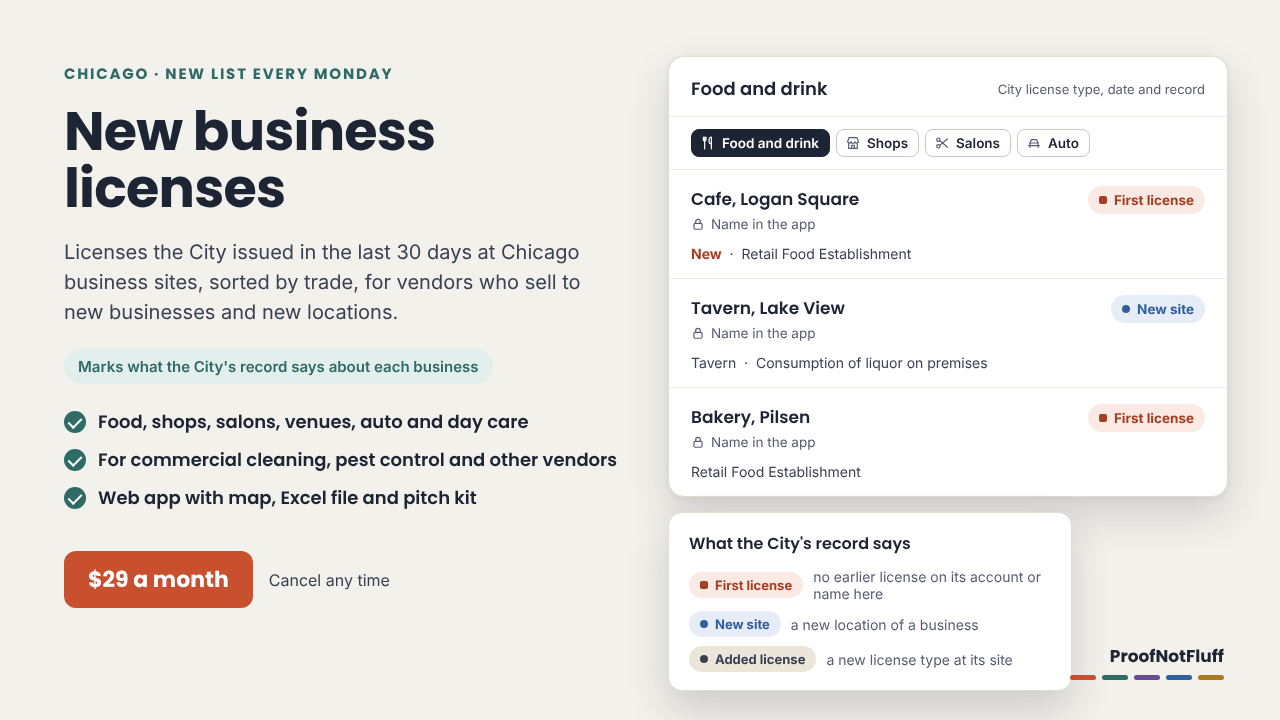
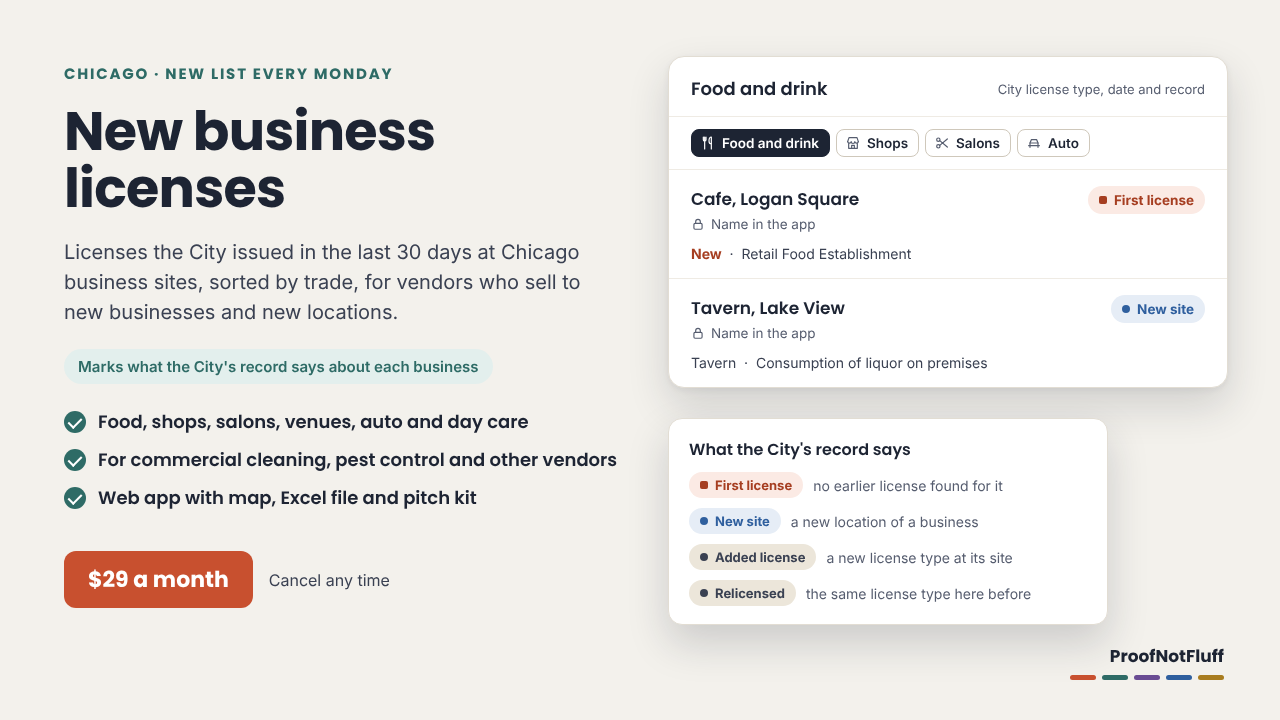
Licenses: holdout 2 round 5 minor items
- Left-out list names pharmaceutical representative licenses; vehicle parts and rims go to Auto shops (planted)
- Ordinals and the Spanish La keep their casing (87th, La Garrafita; planted)
- Cover shows all four City record labels; FAQ says the list is refreshed every Monday

Claude-Session: https://claude.ai/code/session_01XnX34ksV3GY3Ab6wG7Aich

Changed region(s): [[0.5, 0.5194, 0.9688, 0.9778]]

diff --git a/docs/chicago-new-business-licenses/index.html b/docs/chicago-new-business-licenses/index.html
@@ -7,11 +7,11 @@
 <link rel="icon" href="../assets/favicon.svg" type="image/svg+xml">
 <link rel="preload" href="../assets/fonts/poppins-700.woff2" as="font" type="font/woff2" crossorigin>
 <link rel="stylesheet" href="../assets/pnf.css">
-<script type="application/ld+json">{"@context": "https://schema.org", "@type": "FAQPage", "mainEntity": [{"@type": "Question", "name": "Where does this data come from?", "acceptedAnswer": {"@type": "Answer", "text": "The City of Chicago Data Portal's Business Licenses dataset. We pull it every Monday and keep new licenses (application type Issue) the City issued in the last 30 days at a Chicago business site."}}, {"@type": "Question", "name": "Is every license a brand-new business?", "acceptedAnswer": {"@type": "Answer", "text": "Most are, and each row says which. A business that opens another site, adds a new license type at a site it already has, or licenses a site again (a new owner, or the same business after an older license ended) also gets a new license. The members' list reads the City's earlier licenses for each business and marks which is which: first license, new site, added license or relicensed."}}, {"@type": "Question", "name": "Who is left out?", "acceptedAnswer": {"@type": "Answer", "text": "Renewals and changes, cancelled or revoked licenses, licenses for one person's own work, for work away from a fixed business site, or for an event or season (such as peddlers, special events, pop-ups, tow trucks, home-sharing, bed-and-breakfasts, shared kitchen users, flea market vendors and market stalls), home and mail-drop addresses (home-based businesses, apartments, private mailboxes and virtual offices), sites outside Chicago, and any business whose shown name could be a person's name. A business with two licenses at one site is listed once."}}, {"@type": "Question", "name": "Does it overlap with Chicago Restaurant Inspection Leads?", "acceptedAnswer": {"@type": "Answer", "text": "Partly, and only for food businesses. That product lists the City's food license inspection, which usually comes within three weeks before the food license this list shows. The members' list marks every food row with that inspection in the 120 days before its license, so a member of both can hide them. Nearly all shops, salons, venues, auto shops and day care centers are only here."}}, {"@type": "Question", "name": "Is every business on the list open?", "acceptedAnswer": {"@type": "Answer", "text": "Not necessarily. A license shows the City issued it on that date. Some businesses open the same week, some later."}}, {"@type": "Question", "name": "Do you contact these businesses for me?", "acceptedAnswer": {"@type": "Answer", "text": "No. You make your own calls and visits. We never contact anyone on your behalf, and no business listed has endorsed or works with ProofNotFluff."}}]}</script><script type="application/ld+json">{"@context": "https://schema.org", "@type": "BreadcrumbList", "itemListElement": [{"@type": "ListItem", "position": 1, "name": "Home", "item": "https://proofnotfluff.com/"}, {"@type": "ListItem", "position": 2, "name": "Shop", "item": "https://proofnotfluff.com/shop/"}, {"@type": "ListItem", "position": 3, "name": "Chicago New Business Licenses"}]}</script><style>.ld-page .asof,.ld-page footer p{color:var(--muted)}.rl-act{margin:18px 0 8px}.lc-pill{background:var(--chip-near-bg);color:var(--chip-near)}.rl3 .ld-pill{margin:0 0 10px}.rl3 .ld-ptop{margin:0 0 12px}.lc-area{font-size:24px;line-height:1.2}.lc-h3{font:600 18px/1.3 Poppins,system-ui,sans-serif;margin:26px 0 10px;color:var(--ink)}.lc-h3 span{font:400 15px/1.3 system-ui,sans-serif;color:var(--muted)}.ld-page .ld-tiles .tile .lab{letter-spacing:.04em;overflow-wrap:anywhere}.ld-page .ld-tiles .tile .sub{text-wrap:balance}@media(max-width:600px){.ld-page .ld-tiles .tile .lab{font-size:11.5px;letter-spacing:.02em;white-space:normal}}@media(min-width:1000px){.ld-list.rl3{grid-template-columns:repeat(3,minmax(0,1fr))}}.rl-trades{list-style:none;margin:14px 0 0;padding:0;background:var(--card);border:1px solid var(--line);border-radius:12px;max-width:760px}.rl-trades li{display:flex;justify-content:space-between;align-items:center;gap:16px;padding:12px 16px;border-top:1px solid var(--rule)}section.block .rl-trades li{max-width:none}.rl-trades li:first-child{border-top:0}.rl-trades .nm{font-weight:600;color:var(--ink)}.rl-trades .nm small{display:block;font-size:13.5px;font-weight:400;color:var(--muted);margin-top:2px}.rl-trades .n{font:700 18px/1 Poppins,system-ui,sans-serif;color:var(--ink);font-variant-numeric:tabular-nums}.ld-page .ld-cta p.ld-buybtn{margin-top:16px}.ld-page h2,.ld-page h3,.ld-page summary{text-wrap:balance}</style>
+<script type="application/ld+json">{"@context": "https://schema.org", "@type": "FAQPage", "mainEntity": [{"@type": "Question", "name": "Where does this data come from?", "acceptedAnswer": {"@type": "Answer", "text": "The City of Chicago Data Portal's Business Licenses dataset. The list is refreshed every Monday from the City's latest records. It keeps new licenses (application type Issue) the City issued in the last 30 days at a Chicago business site."}}, {"@type": "Question", "name": "Is every license a brand-new business?", "acceptedAnswer": {"@type": "Answer", "text": "Most are, and each row says which. A business that opens another site, adds a new license type at a site it already has, or licenses a site again (a new owner, or the same business after an older license ended) also gets a new license. The members' list reads the City's earlier licenses for each business and marks which is which: first license, new site, added license or relicensed."}}, {"@type": "Question", "name": "Who is left out?", "acceptedAnswer": {"@type": "Answer", "text": "Renewals and changes, cancelled or revoked licenses, licenses for one person's own work, for work away from a fixed business site, or for an event or season (such as peddlers, special events, pop-ups, tow trucks, home-sharing, bed-and-breakfasts, shared kitchen users, flea market vendors and market stalls), home and mail-drop addresses (home-based businesses, apartments, private mailboxes and virtual offices), sites outside Chicago, and any business whose shown name could be a person's name. A business with two licenses at one site is listed once."}}, {"@type": "Question", "name": "Does it overlap with Chicago Restaurant Inspection Leads?", "acceptedAnswer": {"@type": "Answer", "text": "Partly, and only for food businesses. That product lists the City's food license inspection, which usually comes within three weeks before the food license this list shows. The members' list marks every food row with that inspection in the 120 days before its license, so a member of both can hide them. Nearly all shops, salons, venues, auto shops and day care centers are only here."}}, {"@type": "Question", "name": "Is every business on the list open?", "acceptedAnswer": {"@type": "Answer", "text": "Not necessarily. A license shows the City issued it on that date. Some businesses open the same week, some later."}}, {"@type": "Question", "name": "Do you contact these businesses for me?", "acceptedAnswer": {"@type": "Answer", "text": "No. You make your own calls and visits. We never contact anyone on your behalf, and no business listed has endorsed or works with ProofNotFluff."}}]}</script><script type="application/ld+json">{"@context": "https://schema.org", "@type": "BreadcrumbList", "itemListElement": [{"@type": "ListItem", "position": 1, "name": "Home", "item": "https://proofnotfluff.com/"}, {"@type": "ListItem", "position": 2, "name": "Shop", "item": "https://proofnotfluff.com/shop/"}, {"@type": "ListItem", "position": 3, "name": "Chicago New Business Licenses"}]}</script><style>.ld-page .asof,.ld-page footer p{color:var(--muted)}.rl-act{margin:18px 0 8px}.lc-pill{background:var(--chip-near-bg);color:var(--chip-near)}.rl3 .ld-pill{margin:0 0 10px}.rl3 .ld-ptop{margin:0 0 12px}.lc-area{font-size:24px;line-height:1.2}.lc-h3{font:600 18px/1.3 Poppins,system-ui,sans-serif;margin:26px 0 10px;color:var(--ink)}.lc-h3 span{font:400 15px/1.3 system-ui,sans-serif;color:var(--muted)}.ld-page .ld-tiles .tile .lab{letter-spacing:.04em;overflow-wrap:anywhere}.ld-page .ld-tiles .tile .sub{text-wrap:balance}@media(max-width:600px){.ld-page .ld-tiles .tile .lab{font-size:11.5px;letter-spacing:.02em;white-space:normal}}@media(min-width:1000px){.ld-list.rl3{grid-template-columns:repeat(3,minmax(0,1fr))}}.rl-trades{list-style:none;margin:14px 0 0;padding:0;background:var(--card);border:1px solid var(--line);border-radius:12px;max-width:760px}.rl-trades li{display:flex;justify-content:space-between;align-items:center;gap:16px;padding:12px 16px;border-top:1px solid var(--rule)}section.block .rl-trades li{max-width:none}.rl-trades li:first-child{border-top:0}.rl-trades .nm{font-weight:600;color:var(--ink)}.rl-trades .nm small{display:block;font-size:13.5px;font-weight:400;color:var(--muted);margin-top:2px}.rl-trades .n{font:700 18px/1 Poppins,system-ui,sans-serif;color:var(--ink);font-variant-numeric:tabular-nums}.ld-page .ld-cta p.ld-buybtn{margin-top:16px}.ld-page h2,.ld-page h3,.ld-page summary{text-wrap:balance}</style>
 </head><body class="ld-page">
 <a class="skip" href="#main">Skip to content</a>
 <header class="top"><div class="wrap"><a class="brandlink" href="../"><span class="brand">ProofNotFluff</span><span class="bars" aria-hidden="true"><i></i><i></i><i></i><i></i><i></i></span></a>
 <nav class="top" aria-label="Main"><a href="../shop/" aria-current="page">Shop</a><a href="../calculators/">Free calculators</a><a href="../questions/">Questions</a></nav></div></header>
-<main class="wrap" id="main"><nav class="crumbs" aria-label="Breadcrumb"><ol><li><a href="../">Home</a></li><li><a href="../shop/">Shop</a></li><li aria-current="page">Chicago New Business Licenses</li></ol></nav><div class="ld-hero"><p class="eyebrow">Free sample, updated every Monday</p><h1>Chicago New Business Licenses</h1><p class="lede">53 business sites on this week's list got a new City business license in the week to Oct 22, 2026, and 234 in the last 30 days. For vendors who sell to new businesses and new locations: POS and payments, signs, insurance, bookkeeping, cleaning, pest control, waste and supplies.</p><div class="ld-heroact rl-act"><a class="btn ld-btnbig" href="mailto:hello@proofnotfluff.com?subject=Chicago%20New%20Business%20Licenses%3A%20tell%20me%20when%20it%20opens">Tell me when it opens</a><a class="ld-textlink" href="#sample">See this week's sample</a></div><p class="ld-heronote">Not on sale yet. New list every Monday.</p></div><div class="tiles ld-tiles"><div class="tile key"><div class="lab">New in 30 days</div><div class="val">234</div><div class="sub">licensed business sites</div></div><div class="tile"><div class="lab">New this week</div><div class="val">53</div><div class="sub">licensed in the last 7 days</div></div><div class="tile"><div class="lab">Food businesses</div><div class="val">74</div><div class="sub">restaurants, cafes, bars, shops</div></div><div class="tile"><div class="lab">Busiest area this week</div><div class="val lc-area">Lincoln Park</div><div class="sub">4 new licenses, tied with 1 more area</div></div></div><p class="asof">City records pulled Thursday, Oct 22, 2026. The list is refreshed every Monday.</p><section class="block"><h2>New licenses by trade, last 30 days</h2><p>Each business on the list, sorted by what it does, so you can work the trades that buy from you.</p><ol class="rl-trades"><li><span class="nm">Food and drink<small>Restaurants, cafes, bars, caterers and food stores, by their City food or liquor license or a prepared or perishable food activity. 26 new this week</small></span><span class="n">74</span></li><li><span class="nm">Shops and services<small>Shops, offices, studios, manufacturers and other services. 16 new this week</small></span><span class="n">103</span></li><li><span class="nm">Salons, spas, fitness<small>Salons, barbers, nails, skin care, spas, gyms and studios. 7 new this week</small></span><span class="n">41</span></li><li><span class="nm">Venues and lodging<small>Event venues, entertainment, hotels and lodging. 2 new this week</small></span><span class="n">3</span></li><li><span class="nm">Auto shops<small>Auto repair, tire shops, car washes and gas stations. 1 new this week</small></span><span class="n">10</span></li><li><span class="nm">Day care<small>Day care and children&#x27;s services. 1 new this week</small></span><span class="n">3</span></li></ol></section><section class="block" id="sample"><h2>This week's sample</h2><p>Up to three businesses per trade licensed in the last 7 days. The members' list has all 234 from the last 30 days, with a map, filters by trade, area and date, and an Excel file.</p><h3 class="lc-h3">Food and drink <span>(26 this week)</span></h3><div class="ld-list rl3"><article class="ld-proj"><p class="ld-pill lc-pill">Licensed Oct 21, 2026</p><div class="ld-ptop"><span class="ld-cost" style="font-size:20px">Plush Pup</span></div><dl class="ld-meta"><div><dt>Where</dt><dd>5344 N Cumberland Ave 1st, O&#x27;Hare</dd></div><div><dt>License</dt><dd>Retail Food Establishment</dd></div><div><dt>Activity</dt><dd>Sale of Food Prepared Onsite With Dining Area</dd></div></dl></article><article class="ld-proj"><p class="ld-pill lc-pill">Licensed Oct 21, 2026</p><div class="ld-ptop"><span class="ld-cost" style="font-size:20px">Pearl Club</span></div><dl class="ld-meta"><div><dt>Where</dt><dd>495-499 N Milwaukee Ave Basement, 1, Mezz., West Town</dd></div><div><dt>License</dt><dd>Tavern</dd></div><div><dt>Activity</dt><dd>Tavern - Consumption of Liquor on Premises</dd></div></dl></article><article class="ld-proj"><p class="ld-pill lc-pill">Licensed Oct 21, 2026</p><div class="ld-ptop"><span class="ld-cost" style="font-size:20px">Millennium Hall Casa Bonita</span></div><dl class="ld-meta"><div><dt>Where</dt><dd>11 N Michigan Ave 1st, Loop</dd></div><div><dt>License</dt><dd>Caterer&#x27;s Liquor License</dd></div><div><dt>Activity</dt><dd>Catering of Liquor To Events</dd></div></dl></article></div><h3 class="lc-h3">Shops and services <span>(16 this week)</span></h3><div class="ld-list rl3"><article class="ld-proj"><p class="ld-pill lc-pill">Licensed Oct 21, 2026</p><div class="ld-ptop"><span class="ld-cost" style="font-size:20px">Pro Plus Parking</span></div><dl class="ld-meta"><div><dt>Where</dt><dd>1005 N State St 23,4,5,6rt, Near North Side</dd></div><div><dt>License</dt><dd>Commercial Garage</dd></div><div><dt>Activity</dt><dd>Provide 4 or More Parking Spaces For a Fee - to Residents, Tenants, Users, Employees and/or Guests (Not Available or Advertised to the Public)</dd></div></dl></article><article class="ld-proj"><p class="ld-pill lc-pill">Licensed Oct 21, 2026</p><div class="ld-ptop"><span class="ld-cost" style="font-size:20px">Paws &amp; Effect</span></div><dl class="ld-meta"><div><dt>Where</dt><dd>2459 E 75th St, South Shore</dd></div><div><dt>License</dt><dd>Animal Care License</dd></div><div><dt>Activity</dt><dd>Provide Animal Grooming Services</dd></div></dl></article><article class="ld-proj"><p class="ld-pill lc-pill">Licensed Oct 21, 2026</p><div class="ld-ptop"><span class="ld-cost" style="font-size:20px">House of Fragrances Luxe</span></div><dl class="ld-meta"><div><dt>Where</dt><dd>3351 N Harlem Ave, Dunning</dd></div><div><dt>License</dt><dd>Limited Business License</dd></div><div><dt>Activity</dt><dd>Retail Sales of General Merchandise</dd></div></dl></article></div><h3 class="lc-h3">Salons, spas, fitness <span>(7 this week)</span></h3><div class="ld-list rl3"><article class="ld-proj"><p class="ld-pill lc-pill">Licensed Oct 21, 2026</p><div class="ld-ptop"><span class="ld-cost" style="font-size:20px">One Stop Nails &amp; Spa</span></div><dl class="ld-meta"><div><dt>Where</dt><dd>8145 S Cottage Grove Ave, Chatham</dd></div><div><dt>License</dt><dd>Limited Business License</dd></div><div><dt>Activity</dt><dd>Nail Services | Provide Waxing Services</dd></div></dl></article><article class="ld-proj"><p class="ld-pill lc-pill">Licensed Oct 21, 2026</p><div class="ld-ptop"><span class="ld-cost" style="font-size:20px">Lincoln Park Waxing Studio Inc.</span></div><dl class="ld-meta"><div><dt>Where</dt><dd>2102 N Clark St 1st, Lincoln Park</dd></div><div><dt>License</dt><dd>Limited Business License</dd></div><div><dt>Activity</dt><dd>Skincare Services | Provide Waxing Services</dd></div></dl></article><article class="ld-proj"><p class="ld-pill lc-pill">Licensed Oct 21, 2026</p><div class="ld-ptop"><span class="ld-cost" style="font-size:20px">Emyves Spa</span></div><dl class="ld-meta"><div><dt>Where</dt><dd>7127 N Clark St 1st, Rogers Park</dd></div><div><dt>License</dt><dd>Limited Business License</dd></div><div><dt>Activity</dt><dd>Hair Services | Skincare Services</dd></div></dl></article></div><h3 class="lc-h3">Venues and lodging <span>(2 this week)</span></h3><div class="ld-list rl3"><article class="ld-proj"><p class="ld-pill lc-pill">Licensed Oct 20, 2026</p><div class="ld-ptop"><span class="ld-cost" style="font-size:20px">Play 424</span></div><dl class="ld-meta"><div><dt>Where</dt><dd>1415 N Ashland Ave 1 R1, West Town</dd></div><div><dt>License</dt><dd>Public Place of Amusement</dd></div><div><dt>Activity</dt><dd>Charges a Fee for Entertainment or Amusements or Recreational Activities | Retail Sales of General Merchandise and Non-Perishable Food</dd></div></dl></article><article class="ld-proj"><p class="ld-pill lc-pill">Licensed Oct 15, 2026</p><div class="ld-ptop"><span class="ld-cost" style="font-size:20px">The Smart Bar</span></div><dl class="ld-meta"><div><dt>Where</dt><dd>3730 N Clark St Basement, Lake View</dd></div><div><dt>License</dt><dd>Public Place of Amusement</dd></div><div><dt>Activity</dt><dd>Charges a Fee for Entertainment or Amusements or Recreational Activities</dd></div></dl></article></div><h3 class="lc-h3">Auto shops <span>(1 this week)</span></h3><div class="ld-list rl3"><article class="ld-proj"><p class="ld-pill lc-pill">Licensed Oct 19, 2026</p><div class="ld-ptop"><span class="ld-cost" style="font-size:20px">Bolts and Nuts</span></div><dl class="ld-meta"><div><dt>Where</dt><dd>3353 W Division St 1, Humboldt Park</dd></div><div><dt>License</dt><dd>Motor Vehicle Services License</dd></div><div><dt>Activity</dt><dd>Motor Vehicle Repair - Engine and Transmission Work</dd></div></dl></article></div><h3 class="lc-h3">Day care <span>(1 this week)</span></h3><div class="ld-list rl3"><article class="ld-proj"><p class="ld-pill lc-pill">Licensed Oct 20, 2026</p><div class="ld-ptop"><span class="ld-cost" style="font-size:20px">Boitsov Classical Ballet</span></div><dl class="ld-meta"><div><dt>Where</dt><dd>5638 W 63rd St 1st, Clearing</dd></div><div><dt>License</dt><dd>Children&#x27;s Services Facility License</dd></div><div><dt>Activity</dt><dd>Instruction in Dance for Children Under 18 Years of Age</dd></div></dl></article></div></section><section class="block"><h2>How to use this list</h2><p>Pick the trades that buy from you. A new restaurant and a new salon need different vendors, so the list is sorted by what each business does.</p><p>Reach out in the first weeks. The license date tells you how recently the business opened or added a site, so you can reach out early.</p><p>Visit or call the business at its licensed address, name the license and its date, and say in one line what you do for businesses like it.</p><p>If you also have Chicago Restaurant Inspection Leads: food businesses usually get a City food license inspection before the license is issued, usually within three weeks before, and that product lists those inspections as Opening soon. So you may already have seen most of the food businesses here. Each food row with that inspection is marked in the members&#x27; list, so you can hide them. Nearly all businesses in the other trades are only here.</p></section><section class="block" id="ldCta"><div class="cta ld-cta"><div><h2>Get the full list every Monday</h2><p>New business licenses the City issued in the last 30 days at Chicago business sites, except the ones left out on purpose, one row per business and site, sorted by trade, with license type, business activity, issue date, address, community area and what the City&#x27;s earlier records say about the business, in a members&#x27; web app and an Excel file.</p><p class="ld-buybtn"><a class="btn ld-btnbig" href="mailto:hello@proofnotfluff.com?subject=Chicago%20New%20Business%20Licenses%3A%20tell%20me%20when%20it%20opens">Tell me when it opens</a></p></div></div></section><section class="block"><h2>Questions</h2><details><summary>Where does this data come from?</summary><p>The City of Chicago Data Portal&#x27;s Business Licenses dataset. We pull it every Monday and keep new licenses (application type Issue) the City issued in the last 30 days at a Chicago business site.</p></details><details><summary>Is every license a brand-new business?</summary><p>Most are, and each row says which. A business that opens another site, adds a new license type at a site it already has, or licenses a site again (a new owner, or the same business after an older license ended) also gets a new license. The members&#x27; list reads the City&#x27;s earlier licenses for each business and marks which is which: first license, new site, added license or relicensed.</p></details><details><summary>Who is left out?</summary><p>Renewals and changes, cancelled or revoked licenses, licenses for one person&#x27;s own work, for work away from a fixed business site, or for an event or season (such as peddlers, special events, pop-ups, tow trucks, home-sharing, bed-and-breakfasts, shared kitchen users, flea market vendors and market stalls), home and mail-drop addresses (home-based businesses, apartments, private mailboxes and virtual offices), sites outside Chicago, and any business whose shown name could be a person&#x27;s name. A business with two licenses at one site is listed once.</p></details><details><summary>Does it overlap with Chicago Restaurant Inspection Leads?</summary><p>Partly, and only for food businesses. That product lists the City&#x27;s food license inspection, which usually comes within three weeks before the food license this list shows. The members&#x27; list marks every food row with that inspection in the 120 days before its license, so a member of both can hide them. Nearly all shops, salons, venues, auto shops and day care centers are only here.</p></details><details><summary>Is every business on the list open?</summary><p>Not necessarily. A license shows the City issued it on that date. Some businesses open the same week, some later.</p></details><details><summary>Do you contact these businesses for me?</summary><p>No. You make your own calls and visits. We never contact anyone on your behalf, and no business listed has endorsed or works with ProofNotFluff.</p></details></section></main>
+<main class="wrap" id="main"><nav class="crumbs" aria-label="Breadcrumb"><ol><li><a href="../">Home</a></li><li><a href="../shop/">Shop</a></li><li aria-current="page">Chicago New Business Licenses</li></ol></nav><div class="ld-hero"><p class="eyebrow">Free sample, updated every Monday</p><h1>Chicago New Business Licenses</h1><p class="lede">53 business sites on this week's list got a new City business license in the week to Oct 22, 2026, and 234 in the last 30 days. For vendors who sell to new businesses and new locations: POS and payments, signs, insurance, bookkeeping, cleaning, pest control, waste and supplies.</p><div class="ld-heroact rl-act"><a class="btn ld-btnbig" href="mailto:hello@proofnotfluff.com?subject=Chicago%20New%20Business%20Licenses%3A%20tell%20me%20when%20it%20opens">Tell me when it opens</a><a class="ld-textlink" href="#sample">See this week's sample</a></div><p class="ld-heronote">Not on sale yet. New list every Monday.</p></div><div class="tiles ld-tiles"><div class="tile key"><div class="lab">New in 30 days</div><div class="val">234</div><div class="sub">licensed business sites</div></div><div class="tile"><div class="lab">New this week</div><div class="val">53</div><div class="sub">licensed in the last 7 days</div></div><div class="tile"><div class="lab">Food businesses</div><div class="val">74</div><div class="sub">restaurants, cafes, bars, shops</div></div><div class="tile"><div class="lab">Busiest area this week</div><div class="val lc-area">Lincoln Park</div><div class="sub">4 new licenses, tied with 1 more area</div></div></div><p class="asof">City records pulled Thursday, Oct 22, 2026. The list is refreshed every Monday.</p><section class="block"><h2>New licenses by trade, last 30 days</h2><p>Each business on the list, sorted by what it does, so you can work the trades that buy from you.</p><ol class="rl-trades"><li><span class="nm">Food and drink<small>Restaurants, cafes, bars, caterers and food stores, by their City food or liquor license or a prepared or perishable food activity. 26 new this week</small></span><span class="n">74</span></li><li><span class="nm">Shops and services<small>Shops, offices, studios, manufacturers and other services. 16 new this week</small></span><span class="n">103</span></li><li><span class="nm">Salons, spas, fitness<small>Salons, barbers, nails, skin care, spas, gyms and studios. 7 new this week</small></span><span class="n">41</span></li><li><span class="nm">Venues and lodging<small>Event venues, entertainment, hotels and lodging. 2 new this week</small></span><span class="n">3</span></li><li><span class="nm">Auto shops<small>Auto repair, tire shops, car washes and gas stations. 1 new this week</small></span><span class="n">10</span></li><li><span class="nm">Day care<small>Day care and children&#x27;s services. 1 new this week</small></span><span class="n">3</span></li></ol></section><section class="block" id="sample"><h2>This week's sample</h2><p>Up to three businesses per trade licensed in the last 7 days. The members' list has all 234 from the last 30 days, with a map, filters by trade, area and date, and an Excel file.</p><h3 class="lc-h3">Food and drink <span>(26 this week)</span></h3><div class="ld-list rl3"><article class="ld-proj"><p class="ld-pill lc-pill">Licensed Oct 21, 2026</p><div class="ld-ptop"><span class="ld-cost" style="font-size:20px">Plush Pup</span></div><dl class="ld-meta"><div><dt>Where</dt><dd>5344 N Cumberland Ave 1st, O&#x27;Hare</dd></div><div><dt>License</dt><dd>Retail Food Establishment</dd></div><div><dt>Activity</dt><dd>Sale of Food Prepared Onsite With Dining Area</dd></div></dl></article><article class="ld-proj"><p class="ld-pill lc-pill">Licensed Oct 21, 2026</p><div class="ld-ptop"><span class="ld-cost" style="font-size:20px">Pearl Club</span></div><dl class="ld-meta"><div><dt>Where</dt><dd>495-499 N Milwaukee Ave Basement, 1, Mezz., West Town</dd></div><div><dt>License</dt><dd>Tavern</dd></div><div><dt>Activity</dt><dd>Tavern - Consumption of Liquor on Premises</dd></div></dl></article><article class="ld-proj"><p class="ld-pill lc-pill">Licensed Oct 21, 2026</p><div class="ld-ptop"><span class="ld-cost" style="font-size:20px">Millennium Hall Casa Bonita</span></div><dl class="ld-meta"><div><dt>Where</dt><dd>11 N Michigan Ave 1st, Loop</dd></div><div><dt>License</dt><dd>Caterer&#x27;s Liquor License</dd></div><div><dt>Activity</dt><dd>Catering of Liquor To Events</dd></div></dl></article></div><h3 class="lc-h3">Shops and services <span>(16 this week)</span></h3><div class="ld-list rl3"><article class="ld-proj"><p class="ld-pill lc-pill">Licensed Oct 21, 2026</p><div class="ld-ptop"><span class="ld-cost" style="font-size:20px">Pro Plus Parking</span></div><dl class="ld-meta"><div><dt>Where</dt><dd>1005 N State St 23,4,5,6rt, Near North Side</dd></div><div><dt>License</dt><dd>Commercial Garage</dd></div><div><dt>Activity</dt><dd>Provide 4 or More Parking Spaces For a Fee - to Residents, Tenants, Users, Employees and/or Guests (Not Available or Advertised to the Public)</dd></div></dl></article><article class="ld-proj"><p class="ld-pill lc-pill">Licensed Oct 21, 2026</p><div class="ld-ptop"><span class="ld-cost" style="font-size:20px">Paws &amp; Effect</span></div><dl class="ld-meta"><div><dt>Where</dt><dd>2459 E 75th St, South Shore</dd></div><div><dt>License</dt><dd>Animal Care License</dd></div><div><dt>Activity</dt><dd>Provide Animal Grooming Services</dd></div></dl></article><article class="ld-proj"><p class="ld-pill lc-pill">Licensed Oct 21, 2026</p><div class="ld-ptop"><span class="ld-cost" style="font-size:20px">House of Fragrances Luxe</span></div><dl class="ld-meta"><div><dt>Where</dt><dd>3351 N Harlem Ave, Dunning</dd></div><div><dt>License</dt><dd>Limited Business License</dd></div><div><dt>Activity</dt><dd>Retail Sales of General Merchandise</dd></div></dl></article></div><h3 class="lc-h3">Salons, spas, fitness <span>(7 this week)</span></h3><div class="ld-list rl3"><article class="ld-proj"><p class="ld-pill lc-pill">Licensed Oct 21, 2026</p><div class="ld-ptop"><span class="ld-cost" style="font-size:20px">One Stop Nails &amp; Spa</span></div><dl class="ld-meta"><div><dt>Where</dt><dd>8145 S Cottage Grove Ave, Chatham</dd></div><div><dt>License</dt><dd>Limited Business License</dd></div><div><dt>Activity</dt><dd>Nail Services | Provide Waxing Services</dd></div></dl></article><article class="ld-proj"><p class="ld-pill lc-pill">Licensed Oct 21, 2026</p><div class="ld-ptop"><span class="ld-cost" style="font-size:20px">Lincoln Park Waxing Studio Inc.</span></div><dl class="ld-meta"><div><dt>Where</dt><dd>2102 N Clark St 1st, Lincoln Park</dd></div><div><dt>License</dt><dd>Limited Business License</dd></div><div><dt>Activity</dt><dd>Skincare Services | Provide Waxing Services</dd></div></dl></article><article class="ld-proj"><p class="ld-pill lc-pill">Licensed Oct 21, 2026</p><div class="ld-ptop"><span class="ld-cost" style="font-size:20px">Emyves Spa</span></div><dl class="ld-meta"><div><dt>Where</dt><dd>7127 N Clark St 1st, Rogers Park</dd></div><div><dt>License</dt><dd>Limited Business License</dd></div><div><dt>Activity</dt><dd>Hair Services | Skincare Services</dd></div></dl></article></div><h3 class="lc-h3">Venues and lodging <span>(2 this week)</span></h3><div class="ld-list rl3"><article class="ld-proj"><p class="ld-pill lc-pill">Licensed Oct 20, 2026</p><div class="ld-ptop"><span class="ld-cost" style="font-size:20px">Play 424</span></div><dl class="ld-meta"><div><dt>Where</dt><dd>1415 N Ashland Ave 1 R1, West Town</dd></div><div><dt>License</dt><dd>Public Place of Amusement</dd></div><div><dt>Activity</dt><dd>Charges a Fee for Entertainment or Amusements or Recreational Activities | Retail Sales of General Merchandise and Non-Perishable Food</dd></div></dl></article><article class="ld-proj"><p class="ld-pill lc-pill">Licensed Oct 15, 2026</p><div class="ld-ptop"><span class="ld-cost" style="font-size:20px">The Smart Bar</span></div><dl class="ld-meta"><div><dt>Where</dt><dd>3730 N Clark St Basement, Lake View</dd></div><div><dt>License</dt><dd>Public Place of Amusement</dd></div><div><dt>Activity</dt><dd>Charges a Fee for Entertainment or Amusements or Recreational Activities</dd></div></dl></article></div><h3 class="lc-h3">Auto shops <span>(1 this week)</span></h3><div class="ld-list rl3"><article class="ld-proj"><p class="ld-pill lc-pill">Licensed Oct 19, 2026</p><div class="ld-ptop"><span class="ld-cost" style="font-size:20px">Bolts and Nuts</span></div><dl class="ld-meta"><div><dt>Where</dt><dd>3353 W Division St 1, Humboldt Park</dd></div><div><dt>License</dt><dd>Motor Vehicle Services License</dd></div><div><dt>Activity</dt><dd>Motor Vehicle Repair - Engine and Transmission Work</dd></div></dl></article></div><h3 class="lc-h3">Day care <span>(1 this week)</span></h3><div class="ld-list rl3"><article class="ld-proj"><p class="ld-pill lc-pill">Licensed Oct 20, 2026</p><div class="ld-ptop"><span class="ld-cost" style="font-size:20px">Boitsov Classical Ballet</span></div><dl class="ld-meta"><div><dt>Where</dt><dd>5638 W 63rd St 1st, Clearing</dd></div><div><dt>License</dt><dd>Children&#x27;s Services Facility License</dd></div><div><dt>Activity</dt><dd>Instruction in Dance for Children Under 18 Years of Age</dd></div></dl></article></div></section><section class="block"><h2>How to use this list</h2><p>Pick the trades that buy from you. A new restaurant and a new salon need different vendors, so the list is sorted by what each business does.</p><p>Reach out in the first weeks. The license date tells you how recently the business opened or added a site, so you can reach out early.</p><p>Visit or call the business at its licensed address, name the license and its date, and say in one line what you do for businesses like it.</p><p>If you also have Chicago Restaurant Inspection Leads: food businesses usually get a City food license inspection before the license is issued, usually within three weeks before, and that product lists those inspections as Opening soon. So you may already have seen most of the food businesses here. Each food row with that inspection is marked in the members&#x27; list, so you can hide them. Nearly all businesses in the other trades are only here.</p></section><section class="block" id="ldCta"><div class="cta ld-cta"><div><h2>Get the full list every Monday</h2><p>New business licenses the City issued in the last 30 days at Chicago business sites, except the ones left out on purpose, one row per business and site, sorted by trade, with license type, business activity, issue date, address, community area and what the City&#x27;s earlier records say about the business, in a members&#x27; web app and an Excel file.</p><p class="ld-buybtn"><a class="btn ld-btnbig" href="mailto:hello@proofnotfluff.com?subject=Chicago%20New%20Business%20Licenses%3A%20tell%20me%20when%20it%20opens">Tell me when it opens</a></p></div></div></section><section class="block"><h2>Questions</h2><details><summary>Where does this data come from?</summary><p>The City of Chicago Data Portal&#x27;s Business Licenses dataset. The list is refreshed every Monday from the City&#x27;s latest records. It keeps new licenses (application type Issue) the City issued in the last 30 days at a Chicago business site.</p></details><details><summary>Is every license a brand-new business?</summary><p>Most are, and each row says which. A business that opens another site, adds a new license type at a site it already has, or licenses a site again (a new owner, or the same business after an older license ended) also gets a new license. The members&#x27; list reads the City&#x27;s earlier licenses for each business and marks which is which: first license, new site, added license or relicensed.</p></details><details><summary>Who is left out?</summary><p>Renewals and changes, cancelled or revoked licenses, licenses for one person&#x27;s own work, for work away from a fixed business site, or for an event or season (such as peddlers, special events, pop-ups, tow trucks, home-sharing, bed-and-breakfasts, shared kitchen users, flea market vendors and market stalls), home and mail-drop addresses (home-based businesses, apartments, private mailboxes and virtual offices), sites outside Chicago, and any business whose shown name could be a person&#x27;s name. A business with two licenses at one site is listed once.</p></details><details><summary>Does it overlap with Chicago Restaurant Inspection Leads?</summary><p>Partly, and only for food businesses. That product lists the City&#x27;s food license inspection, which usually comes within three weeks before the food license this list shows. The members&#x27; list marks every food row with that inspection in the 120 days before its license, so a member of both can hide them. Nearly all shops, salons, venues, auto shops and day care centers are only here.</p></details><details><summary>Is every business on the list open?</summary><p>Not necessarily. A license shows the City issued it on that date. Some businesses open the same week, some later.</p></details><details><summary>Do you contact these businesses for me?</summary><p>No. You make your own calls and visits. We never contact anyone on your behalf, and no business listed has endorsed or works with ProofNotFluff.</p></details></section></main>
 <footer><div class="wrap"><nav class="fnav" aria-label="Footer"><a href="../shop/">Shop</a><a href="../calculators/">Free calculators</a><a href="../questions/">Questions</a><a href="../refunds/">Refunds and cancelling</a><a href="https://proofnotfluff.etsy.com">Workbooks on Etsy</a><a href="mailto:hello@proofnotfluff.com">hello@proofnotfluff.com</a></nav><p>Source: City of Chicago Data Portal, Business Licenses (https://data.cityofchicago.org/Community-Economic-Development/Business-Licenses/r5kz-chrr), pulled Oct 22, 2026. Filtered by ProofNotFluff: new business licenses (application type Issue) issued in the last 30 days at a Chicago business site, one row per business and address. Left out: licenses for one person&#x27;s own work, for work away from a fixed business site, or for an event or season (peddlers, special events, pop-ups, tow trucks, home-sharing, shared kitchen users, private booting), home and mail-drop addresses, and any business whose name could be a person&#x27;s name. Business-level fields only. A license shows the City issued it on that date; it does not say a business is open today or buying anything. No business named here has endorsed or works with ProofNotFluff. Public information for planning sales calls; not legal or business advice and no promise of work.</p><p>This site provides applications using data that has been modified for use from its original source, www.cityofchicago.org, the official website of the City of Chicago. The City of Chicago makes no claims as to the content, accuracy, timeliness, or completeness of any of the data provided at this site. The data provided at this site is subject to change at any time. It is understood that the data provided at this site is being used at one’s own risk.</p><p>ProofNotFluff is not affiliated with or endorsed by the City of Chicago.</p><p>Made by ProofNotFluff with AI assistance from public City data. The page counts visits with Cloudflare Web Analytics, which sets no cookies.</p></div></footer>
 </body></html>

diff --git a/launches/chicago-new-business-licenses/cover.html b/launches/chicago-new-business-licenses/cover.html
@@ -19,13 +19,13 @@ ul{list-style:none;margin:24px 0 0}
 .seg{display:flex;gap:6px;padding:12px 22px;border-bottom:1px solid #EFEBE4;flex-wrap:wrap}
 .seg .tch.on{background:#1D2433;color:#fff;border-color:#1D2433}.seg .tch.on svg{stroke:#fff}
 .row{display:grid;grid-template-columns:1fr auto;gap:12px;padding:16px 22px;border-bottom:1px solid #EFEBE4}
-.row:last-child{border-bottom:0}
+.row:last-child{border-bottom:0}.row:nth-last-child(1){border-bottom:0}
 .lbl b{display:block;font:600 17px P;color:#1D2433}.lbl span{display:inline-flex;align-items:center;gap:6px;margin-top:4px;font-size:13.5px;color:#565D6F}
 .mt{margin-top:10px;font-size:14px;color:#3A4152}.mt b{color:#A63E21;font-weight:700}
 .rr{display:flex;align-items:flex-start}
-.card2{position:absolute;left:668px;top:512px;width:404px;background:#fff;border:1px solid #E2DDD3;border-radius:14px;box-shadow:0 18px 40px rgba(29,36,51,.18);padding:18px 20px}
-.card2 h3{font:600 16px P;margin:0 0 12px}
-.card2 ul{margin:0}.card2 li{display:flex;align-items:center;gap:10px;margin:0 0 9px;font:600 14px In}.card2 li:last-child{margin:0}
+.card2{position:absolute;left:668px;top:418px;width:440px;background:#fff;border:1px solid #E2DDD3;border-radius:14px;box-shadow:0 18px 40px rgba(29,36,51,.18);padding:18px 20px}
+.card2 h3{font:600 16px P;margin:0 0 10px}
+.card2 ul{margin:0}.card2 li{display:flex;align-items:center;gap:10px;margin:0 0 10px;font:600 14px In}.card2 li:last-child{margin:0}
 .card2 .hi{height:26px;font-size:13px}.card2 .t{color:#565D6F;font-weight:400}
 </style></head><body>
 <div class="l"><div class="eb">CHICAGO · NEW LIST EVERY MONDAY</div>
@@ -40,12 +40,11 @@ ul{list-style:none;margin:24px 0 0}
 <p class="mt"><b>New</b> &nbsp;·&nbsp; Retail Food Establishment</p></div><div class="rr"><span class="hi first"><i></i>First license</span></div></div>
 <div class="row"><div><div class="lbl"><b>Tavern, Lake View</b><span><svg viewBox="0 0 24 24" style="width:14px;height:14px;fill:none;stroke:#565D6F;stroke-width:2"><rect x="5" y="11" width="14" height="10" rx="2"/><path d="M8 11V8a4 4 0 0 1 8 0v3"/></svg>Name in the app</span></div>
 <p class="mt">Tavern &nbsp;·&nbsp; Consumption of liquor on premises</p></div><div class="rr"><span class="hi site"><i></i>New site</span></div></div>
-<div class="row"><div><div class="lbl"><b>Bakery, Pilsen</b><span><svg viewBox="0 0 24 24" style="width:14px;height:14px;fill:none;stroke:#565D6F;stroke-width:2"><rect x="5" y="11" width="14" height="10" rx="2"/><path d="M8 11V8a4 4 0 0 1 8 0v3"/></svg>Name in the app</span></div>
-<p class="mt">Retail Food Establishment</p></div><div class="rr"><span class="hi first"><i></i>First license</span></div></div>
 </div>
 <div class="card2"><h3>What the City's record says</h3><ul>
-<li><span class="hi first"><i></i>First license</span><span class="t">no earlier license on its account or name here</span></li>
+<li><span class="hi first"><i></i>First license</span><span class="t">no earlier license found for it</span></li>
 <li><span class="hi site"><i></i>New site</span><span class="t">a new location of a business</span></li>
-<li><span class="hi added"><i></i>Added license</span><span class="t">a new license type at its site</span></li></ul></div>
+<li><span class="hi added"><i></i>Added license</span><span class="t">a new license type at its site</span></li>
+<li><span class="hi added"><i></i>Relicensed</span><span class="t">the same license type here before</span></li></ul></div>
 <div class="brand">ProofNotFluff<div class="bars5"><b style="background:#C8502F"></b><b style="background:#2E6B66"></b><b style="background:#6A4C93"></b><b style="background:#2F5F9E"></b><b style="background:#A87C1F"></b></div></div>
 </body></html>

diff --git a/tools/licenses_chicago.py b/tools/licenses_chicago.py
@@ -49,7 +49,7 @@ SEGMENTS = [
      r"SKIN ?CARE|WAXING|THREADING|MICROBLAD|ELECTROLYSIS"),
     # "Commercial Garage" is the City's parking garage license, not a repair shop, so it stays with other services (Oct 22).
     ("auto", "Auto repair, tire and car wash shops",
-     r"MOTOR VEHICLE|\bAUTO\b|AUTO ?BODY|\bTIRES?\b|CAR WASH|AUTOMOTIVE|VEHICLE REPAIR|BODY SHOP|FILLING STATION"),
+     r"MOTOR VEHICLE|\bAUTO\b|AUTO ?BODY|\bTIRES?\b|CAR WASH|AUTOMOTIVE|VEHICLE REPAIR|VEHICLE PARTS|\bRIMS\b|BODY SHOP|FILLING STATION"),
     ("care", "Day care and children's services",
      r"CHILDREN'?S SERVICES|DAY ?CARE|CHILD CARE|EARLY LEARNING|PRESCHOOL"),
     ("venue", "Venues, entertainment and lodging",
@@ -180,6 +180,8 @@ def name_case(name):
     if re.match(r"\s*LA FITNESS\b", (name or "").upper()):   # the gym brand keeps its initials
         return dba_case(name)
     s = re.sub(r"^(LA|LAS|LOS) (?=[A-Z][a-z])", lambda m: m.group(1).capitalize() + " ", dba_case(name))
+    s = re.sub(r"\b(\d+)(ST|ND|RD|TH)\b", lambda m: m.group(1) + m.group(2).lower(), s)            # "87th Quick Stop" (holdout 2, round 5)
+    s = re.sub(r"(?<=\w )LA(?= [A-Z][a-z])", "La", s)                                              # "Neveria La Garrafita"
     for ac in re.findall(r"\(([A-Z0-9][A-Z0-9 .&-]{1,10})\)", name or ""):     # "(HAMOC)" stays in capitals (holdout 1, round 2)
         s = re.sub(r"\(" + re.escape(ac) + r"\)", "(" + ac + ")", s, flags=re.I)
     return re.sub(r"(?<=\w )(Las|Los)(?= \w)", lambda m: m.group(1).lower(), s)
@@ -717,7 +719,8 @@ def selftest():
     assert GROUND_UNIT.match("1 NW") and GROUND_UNIT.match("B") and not GROUND_UNIT.match("20TH 2021") and not GROUND_UNIT.match("2 2R")
     for raw, want in [("LA CASA DE LAS FLORES", "La Casa de las Flores"), ("LA CALACA CANTINA", "La Calaca Cantina"),
                       ("LA FITNESS", "LA Fitness"), ("YATES LIQUOR", "Yates Liquor"), ("The UPS Store", "The UPS Store"),
-                      ("ChaTraMue", "ChaTraMue"), ("(GEI-184)  Shop", "(GEI-184) Shop"), ("ACME (HAMOC)", "Acme (HAMOC)")]:
+                      ("ChaTraMue", "ChaTraMue"), ("(GEI-184)  Shop", "(GEI-184) Shop"), ("ACME (HAMOC)", "Acme (HAMOC)"),
+                      ("87TH QUICK STOP", "87th Quick Stop"), ("NEVERIA LA GARRAFITA", "Neveria La Garrafita")]:
         assert name_case(raw) == want, (raw, name_case(raw))
     for desc, act, want in [("Regulated Business License", "Computer Consulting Services / Computer Automated Design", "retail"),
                             ("Motor Vehicle Services License", "Motor Vehicle Repair - Engine and Transmission Work", "auto"),
@@ -732,6 +735,7 @@ def selftest():
                             ("Public Place of Amusement", "Charges a Fee for Entertainment | Retail Sales of General Merchandise and Non-Perishable Food", "venue"),
                             ("Retail Food Establishment", "Retail Sales of General Merchandise and Non-Perishable Food", "food"),
                             ("Animal Care License", "Dog Day Care | Boarding | Grooming", "retail"),
+                            ("Limited Business License", "Sale of Vehicle Parts and Accessories", "auto"),
                             ("Children's Services Facility License", "Day Care Center", "care"),
                             ("Limited Business License", "Retail Sales of General Merchandise and Non-Perishable Food | Retail Sales of Perishable Foods", "food")]:
         assert segment(desc, act) == want, (desc, act, segment(desc, act))

diff --git a/tools/lic_xlsx.py b/tools/lic_xlsx.py
@@ -71,7 +71,7 @@ def history_text(r):
 LEFT_OUT = ("Renewals and changes (including an older license the City re-dated), cancelled or revoked licenses, and licenses "
             "for one person's own work, for work done away from a fixed business site, or for an event or a season are left out: peddler, special event, pop-up, raffle, tow truck, valet, "
             "chauffeur, home-sharing, vacation rental, bed-and-breakfast, mobile food, shared kitchen user, private booting, home "
-            "occupation, home repair, massage therapist, body art practitioner, scavenger and expediter licenses, and street performers, flea "
+            "occupation, home repair, massage therapist, body art practitioner, pharmaceutical representative, scavenger and expediter licenses, and street performers, flea "
             "market vendors and market stalls. So are home and mail-drop addresses: businesses the City marks as home based, "
             "addresses with an apartment number, upper-floor units in a building where the City has licensed home-based "
             "businesses at two or more addresses, private mailboxes, and addresses with a current City virtual office license. "
